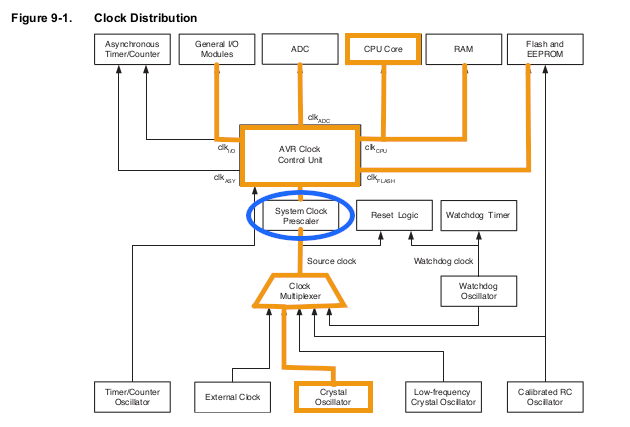
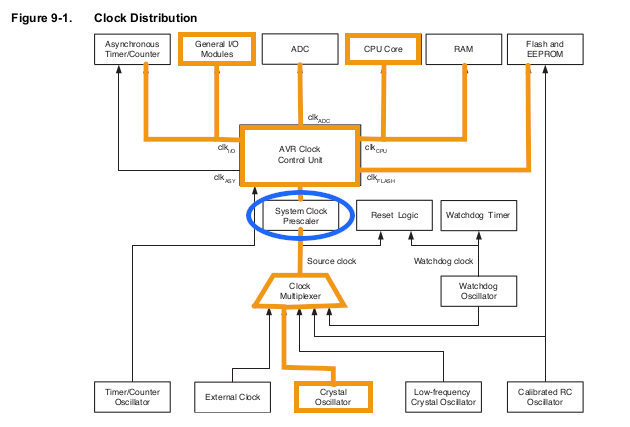
update the clock schematic

Changed region(s): [[0.2714, 0.0609, 0.4222, 0.1522], [0.2111, 0.1522, 0.3619, 0.3349]]

diff --git a/README.md b/README.md
@@ -85,9 +85,9 @@ Arduino IDE by default configures CLKPR to "divide by 1", meaning the 16 MHz inc
 
 ```CLKPR = 0b0100;``` changes this to "divide by 16". The incoming 16 MHz signal from the crystal is reduced to a 1 MHz signal going out.
 
-The whole system switches to the new clock speed. This includes the "General I/O Modules", which means it affects the Serial communications modules such as SPI, TWI (I2C) and USART (the ```Serial.print()``` component.)
+The CPU begins to execute instructions at a 1 MHz rate. In fact, the whole system switches to the new clock speed. This includes the "General I/O Modules", which means it affects the Serial communications modules such as SPI, TWI (I2C) and USART (the ```Serial.print()``` component.)
 
-We need to make one more change if we want Serial communications.
+We will need to make changes in those modules also, if we want Serial communications.
 
 ## The Baud Rate Generator
 The following instructions will enable a '328 running at 1 MHz to use the ```Serial``` communications resource as implemented by the Arduino IDE.
